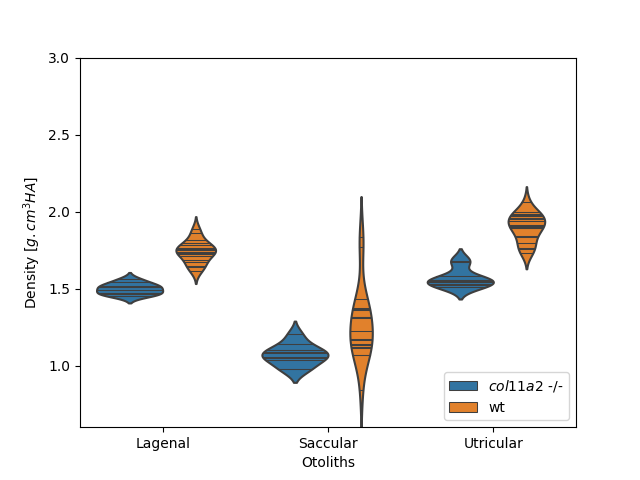
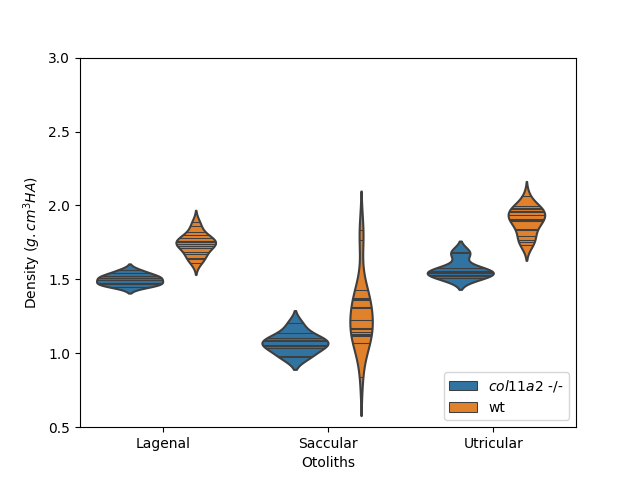
col11 figs

diff --git a/col11.py b/col11.py
@@ -31,7 +31,7 @@ if __name__ == "__main__":
 
 	sixmonthold_wildtypes = ctreader.trim(wildtypes, 'age', [6,7,])
 	print(len(sixmonthold_wildtypes))
-	exit()
+	# exit()
 
 	col11s = ctreader.trim(master, 'strain', ['col11a2'])
 	col11homs = ctreader.trim(col11s, 'genotype', ['hom'])
@@ -69,7 +69,7 @@ if __name__ == "__main__":
 	densities['genotype'] = genotype
 
 	densities = densities.dropna(axis=0)
-	densities = densities.melt(['genotype'], var_name='Otoliths', value_name='Density [$g.cm^{3}HA$]')
+	densities = densities.melt(['genotype'], var_name='Otoliths', value_name='Density ($g.cm^{3}HA$)')
 
 
 	# volumes = {key:data[key]['vols'] for key in data}
@@ -89,10 +89,10 @@ if __name__ == "__main__":
 	print(len(oneyrold_wildtypes), len(col11homs))
 	#40 and 10
 
-	fig = sns.violinplot(x='Otoliths', y='Density [$g.cm^{3}HA$]', hue='genotype', data=densities, inner='stick', legend=False)
+	fig = sns.violinplot(x='Otoliths', y='Density ($g.cm^{3}HA$)', hue='genotype', data=densities, inner='stick', legend=False)
 	plt.ylim((0.6,3.0))
 	plt.legend(loc='lower right')
-	plt.show()
+	plt.savefig('output/yushipaper/densities3.png')
 
 	grouped = densities.groupby(['genotype', 'Otoliths'])
 	means = grouped.mean()
@@ -105,8 +105,8 @@ if __name__ == "__main__":
 	normality = {}
 	significance = {}
 	for oto in ['Lagenal', 'Saccular', 'Utricular']:
-		wt = densities.loc[(densities['genotype'] == 'wt') & (densities['Otoliths'] == oto), 'Density [$g.cm^{3}HA$]'].tolist()
-		mut = densities.loc[(densities['genotype'] == '$col11a2$ -/-') & (densities['Otoliths'] == oto), 'Density [$g.cm^{3}HA$]'].tolist()
+		wt = densities.loc[(densities['genotype'] == 'wt') & (densities['Otoliths'] == oto), 'Density ($g.cm^{3}HA$)'].tolist()
+		mut = densities.loc[(densities['genotype'] == '$col11a2$ -/-') & (densities['Otoliths'] == oto), 'Density ($g.cm^{3}HA$)'].tolist()
 		wt = np.array(wt)
 		mut = np.array(mut)
 		
@@ -115,14 +115,14 @@ if __name__ == "__main__":
 			# wt = preprocessing.normalize([wt])[0]
 			# print(wt)
 			# mut = preprocessing.normalize([mut])[0]
-			plt.boxplot([wt, mut]); plt.show()
+			# plt.boxplot([wt, mut]); plt.show()
 			normality[oto] = [scipy.stats.shapiro(wt), scipy.stats.shapiro(mut)]
 			# wt = random.sample(list(wt), 10)
 			# mut = random.sample(list(mut), 10)
 			significance[oto] = scipy.stats.ttest_ind(wt, mut, equal_var=True)
 		else:
 			normality[oto] = [scipy.stats.shapiro(wt), scipy.stats.shapiro(mut)]
-			plt.boxplot([wt, mut]); plt.show()
+			# plt.boxplot([wt, mut]); plt.show()
 			significance[oto] = scipy.stats.mannwhitneyu(wt, mut)
 	print(normality)
 	print(significance)

diff --git a/col11_six.py b/col11_six.py
@@ -60,14 +60,14 @@ if __name__ == "__main__":
 	densities['genotype'] = genotype
 
 	densities = densities.dropna(axis=0)
-	densities = densities.melt(['genotype'], var_name='Otoliths', value_name='Density [$g.cm^{3}HA$]')
+	densities = densities.melt(['genotype'], var_name='Otoliths', value_name='Density ($g.cm^{3}HA$)')
 
 	
 	print(len(sixmonth_wildtypes), len(data_col11))
 	#40 and 10
 
-	fig = sns.violinplot(x='Otoliths', y='Density [$g.cm^{3}HA$]', hue='genotype', data=densities, inner='stick', legend=False)
-	plt.ylim((0.6,3.0))
+	fig = sns.violinplot(x='Otoliths', y='Density ($g.cm^{3}HA$)', hue='genotype', data=densities, inner='stick', legend=False)
+	plt.ylim((0.5,3.0))
 	plt.legend(loc='lower right')
 	plt.savefig('output/yushipaper/sixMonthDens.png')
 	
@@ -81,8 +81,8 @@ if __name__ == "__main__":
 	normality = {}
 	significance = {}
 	for oto in ['Lagenal', 'Saccular', 'Utricular']:
-		wt = densities.loc[(densities['genotype'] == 'wt') & (densities['Otoliths'] == oto), 'Density [$g.cm^{3}HA$]'].tolist()
-		mut = densities.loc[(densities['genotype'] == '$col11a2$ -/-') & (densities['Otoliths'] == oto), 'Density [$g.cm^{3}HA$]'].tolist()
+		wt = densities.loc[(densities['genotype'] == 'wt') & (densities['Otoliths'] == oto), 'Density ($g.cm^{3}HA$)'].tolist()
+		mut = densities.loc[(densities['genotype'] == '$col11a2$ -/-') & (densities['Otoliths'] == oto), 'Density ($g.cm^{3}HA$)'].tolist()
 		wt = np.array(wt)
 		mut = np.array(mut)
 		
@@ -110,7 +110,7 @@ if __name__ == "__main__":
 
 	# import pdb; pdb.set_trace()
 
-	data = [{'rt': rt['relax_time(s)'][int(k)-1], 
+	data = [{'Relaxation time (s)': rt['relax_time(s)'][int(k)-1], 
 			'Lagenal': densities[0][k], 
 			'Saccular': densities[1][k], 
 			'Utricular': densities[2][k]}  
@@ -121,11 +121,11 @@ if __name__ == "__main__":
 	plt.clf()
 	plt.cla()
 
-	df = df.melt(['rt'], var_name='Otoliths', value_name='Density')
+	df = df.melt(['Relaxation time (s)'], var_name='Otoliths', value_name='Density ($g.cm^{3}HA$)')
 	
 	print(df)
 
-	sns.lineplot(x='rt', y='Density', hue='Otoliths' , data=df)
+	sns.lineplot(x='Relaxation time (s)', y='Density ($g.cm^{3}HA$)', hue='Otoliths' , data=df)
 	plt.savefig('output/yushipaper/rt_v_dens.png')
 
 

diff --git a/get_all_densities.py b/get_all_densities.py
@@ -3,9 +3,6 @@ import matplotlib.pyplot as plt
 import numpy as np
 import json
 
-
-	
-
 if __name__ == '__main__':
 	ctreader = ctfishpy.CTreader()
 	centers = ctreader.manual_centers
